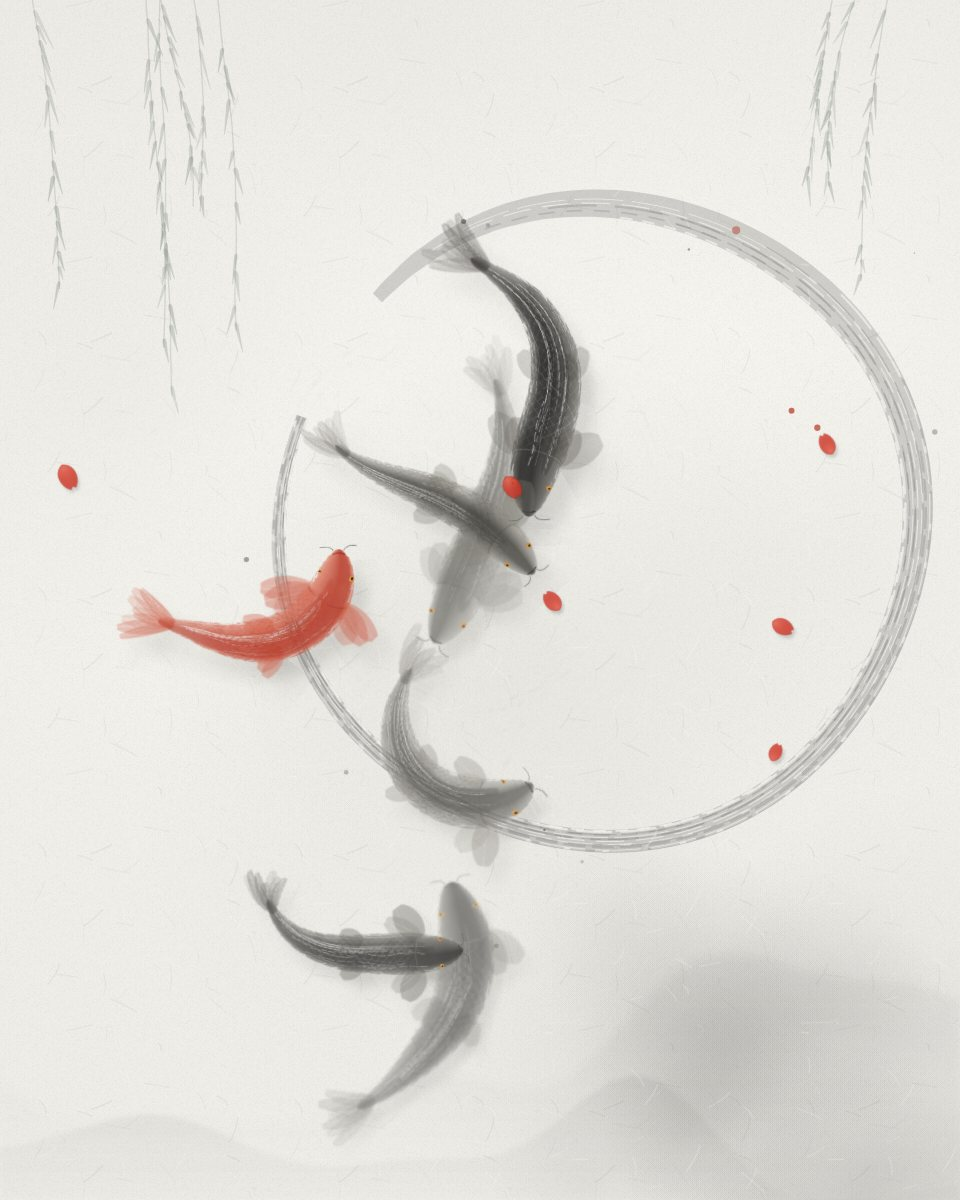
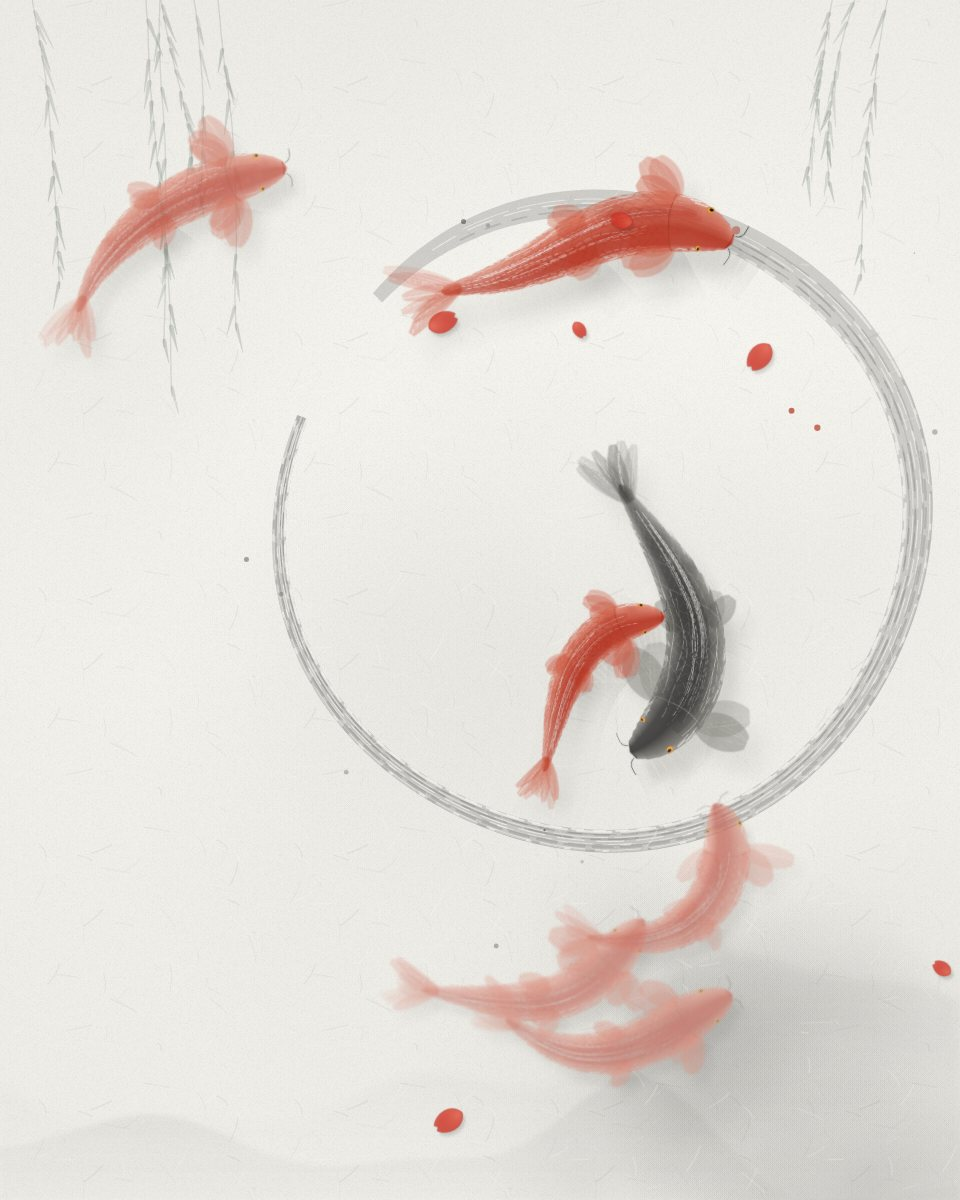
Pond: eight vermilion carp and one black; real Sheng screenshot
Claude-Session: https://claude.ai/code/session_01FxL9rsrT7DSdprTeAJxbDi

diff --git a/index.html b/index.html
@@ -180,7 +180,7 @@
       </article>
 
       <article class="project p2 reveal">
-        <div class="art" data-art="phone" data-seed="4"></div>
+        <div class="art"><img src="sheng.jpg" alt="Sheng’s Study screen on an iPhone: a flashcard showing 回答 (verb, noun), with 20 new, 4 learning and 69 review cards and a Show Answer button" width="960" height="1200" loading="lazy"></div>
         <div class="project-copy">
           <div class="project-meta label"><span><span class="no">02</span>&ensp;Language learning</span><span>2026</span></div>
           <h3>Sheng <em>flashcards</em></h3>
@@ -201,11 +201,11 @@
       </article>
 
       <article class="project pair p4 reveal">
-        <div class="art"><img src="pond.jpg" alt="The ink-and-wash pond from this site’s home page: grey and vermilion carp swimming inside a brushed circle, with willow strands and distant mountains" width="960" height="1200" loading="lazy"></div>
+        <div class="art"><img src="pond.jpg" alt="The ink-and-wash pond from this site’s home page: one black carp circling inside a brushed circle among vermilion carp, with willow strands and distant mountains" width="960" height="1200" loading="lazy"></div>
         <div class="project-copy">
           <div class="project-meta label"><span><span class="no">04</span>&ensp;72nd Studio</span><span>2026</span></div>
           <h3>This <em>website</em></h3>
-          <p>An ink-and-wash pond painted entirely in code: brushwork, ripples, and nine carp (<span class="cjk" lang="zh-Hans">九鲤</span>, a wish for abundance) that swim, glide and circle each other.</p>
+          <p>An ink-and-wash pond painted entirely in code: brushwork, ripples, and nine carp (<span class="cjk" lang="zh-Hans">九鲤</span>, eight vermilion and one black, for prosperity and protection) that swim, glide and circle each other.</p>
           <ul class="tags" aria-label="Built with"><li>WebGL</li><li>Canvas</li><li>HTML &amp; CSS</li></ul>
           <div class="project-links label">
             <a class="text-link" href="https://github.com/dxvance/72ndstudio" target="_blank" rel="noopener">View the code <span class="arrow" aria-hidden="true">↗</span></a>
@@ -415,8 +415,9 @@
     grey: { body: [70, 68, 63], belly: [138, 134, 127], core: 0.86, edge: 0.66, net: 'rgba(36,35,32,', netA: 0.3, fin: [130, 126, 119], finA: 0.6, tail: [122, 118, 111], gill: 'rgba(36,35,32,0.3)' },
     red:  { body: [182, 52, 34], belly: [214, 104, 80], core: 0.94, edge: 0.8, net: 'rgba(120,30,18,', netA: 0.36, fin: [204, 96, 74], finA: 0.72, tail: [206, 100, 78], gill: 'rgba(120,30,18,0.4)' }
   };
-  // Nine carp (九鲤) is the traditional wish for abundance; vermilion kept to two, fewer fish on small screens
-  const KINDS = ['ink', 'red', 'grey', 'ink', 'grey', 'ink', 'grey', 'red', 'ink'];
+  // Nine carp (九鲤): eight vermilion and one black, the feng shui arrangement for prosperity and protection.
+  // The black carp comes first so it stays in the pond on small screens, which show fewer fish.
+  const KINDS = ['ink', 'red', 'red', 'red', 'red', 'red', 'red', 'red', 'red'];
   const PAPER = [246, 245, 240];
 
   const OFF = 4000;
